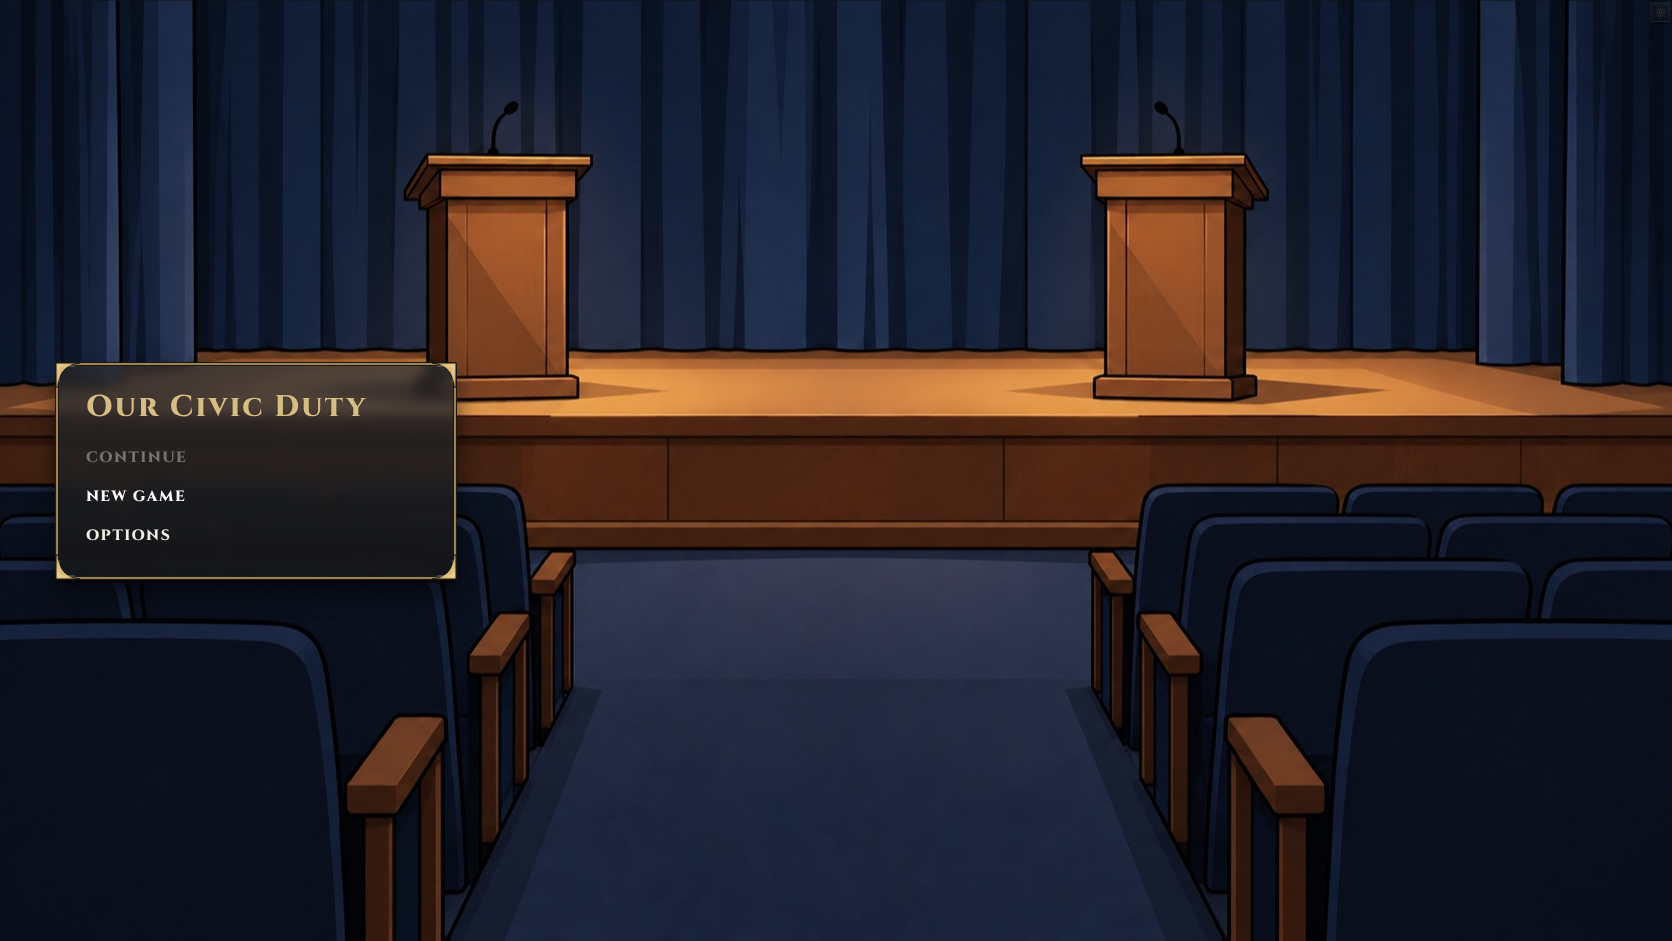
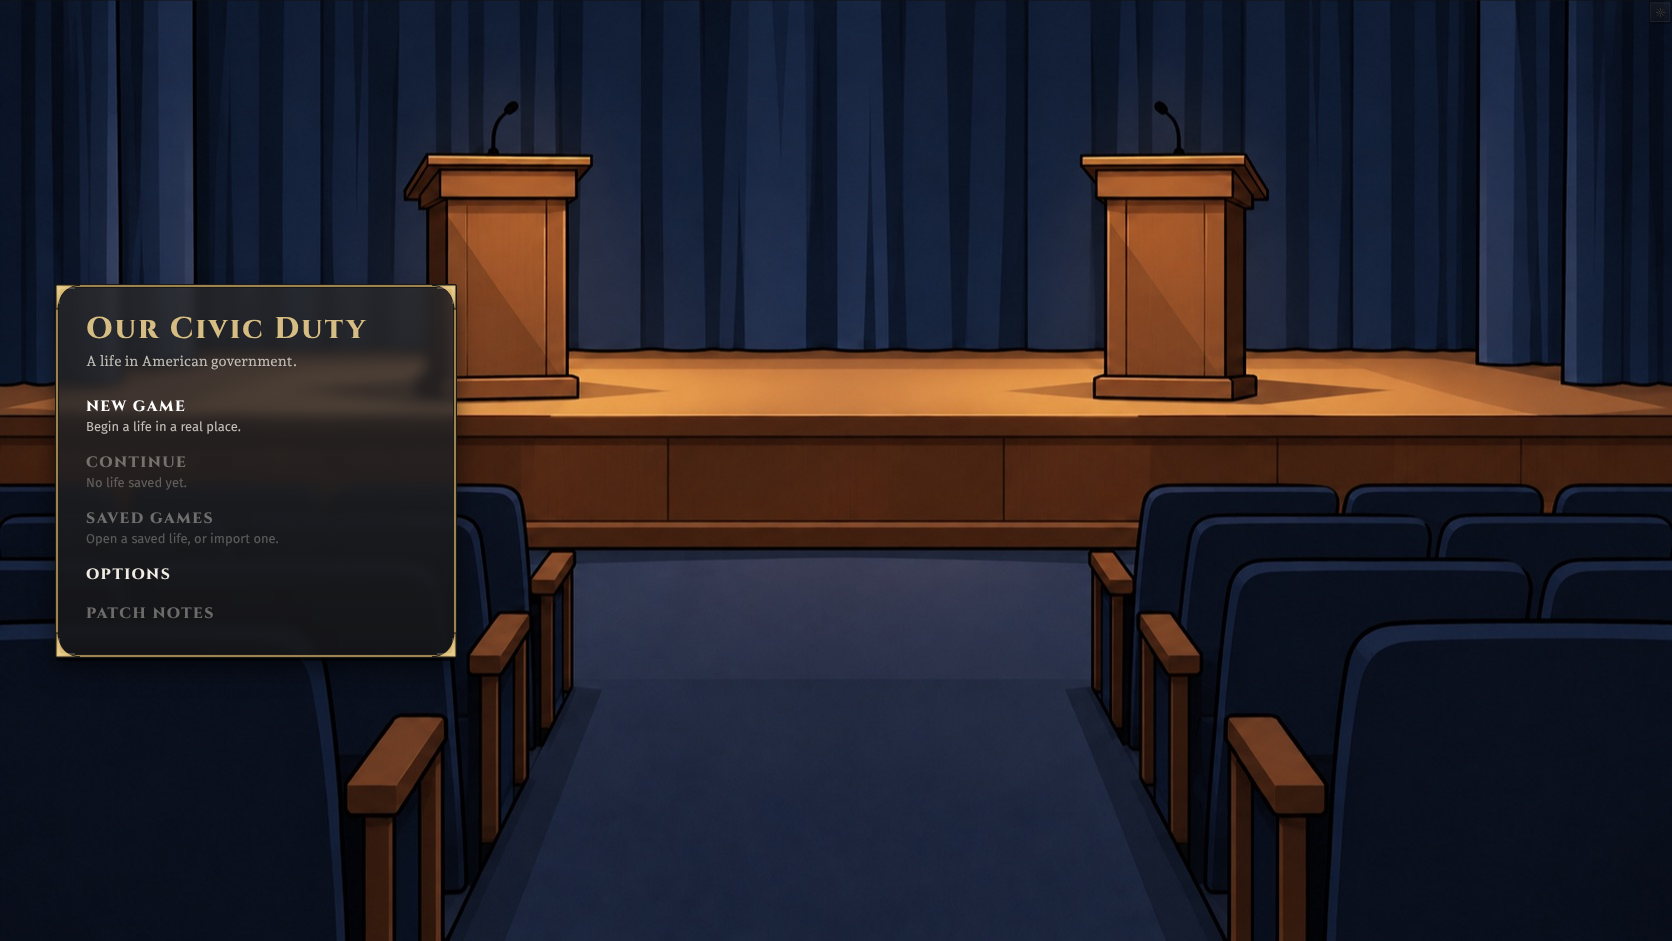
Title: the established menu in the current Kit 13 look, no figure
The front returns to the established title's structure (Oct 2 packet and the
Oct 12 React title): the subtitle under the wordmark, then New game,
Continue, Saved games, Options, Patch notes and Quit on the desktop, each
with its line. Continue is disabled with 'No life saved yet.' when there is
none; Saved games and Patch notes are disabled until saves and a notes route
exist; Watch the world stays out (developer tool). The title's character
placement is deleted; the national-scene rotation stays.

Claude-Session: https://claude.ai/code/session_018wf2994rZTSyb6RouxgtPh

diff --git a/src/bench/play.html b/src/bench/play.html
@@ -78,7 +78,16 @@
 
       <section id="front" class="panel menu" data-testid="title-menu">
         <h1 class="title">Our Civic Duty</h1>
+        <p class="sub">A life in American government.</p>
         <div id="front-main">
+          <button
+            id="new-life"
+            class="item"
+            type="button"
+            data-testid="new-game"
+          >
+            <b>New game</b><span>Begin a life in a real place.</span>
+          </button>
           <button
             id="front-continue"
             class="item"
@@ -86,15 +95,17 @@
             data-testid="continue"
             disabled
           >
-            <b>Continue</b>
+            <b>Continue</b><span>No life saved yet.</span>
           </button>
+          <!-- Saved games and Patch notes wait for saves and a notes route. -->
           <button
-            id="new-life"
+            id="front-saves"
             class="item"
             type="button"
-            data-testid="new-game"
+            data-testid="saved-games"
+            disabled
           >
-            <b>New game</b>
+            <b>Saved games</b><span>Open a saved life, or import one.</span>
           </button>
           <button
             id="front-options"
@@ -103,6 +114,15 @@
             data-testid="title-options"
           >
             <b>Options</b>
+          </button>
+          <button
+            id="front-patch-notes"
+            class="item"
+            type="button"
+            data-testid="title-patch-notes"
+            disabled
+          >
+            <b>Patch notes</b>
           </button>
           <!-- Quit is the desktop's; a browser tab has none to offer. -->
           <button

diff --git a/src/bench/title.ts b/src/bench/title.ts
@@ -1,5 +1,4 @@
-import type { CoreState } from "../core2/types";
-import { backdropFile, stagePeople } from "./scene";
+import { backdropFile } from "./scene";
 
 /**
  * The title's scenes: national places and events that hold people (owner,
@@ -31,26 +30,9 @@ function dayNumber(day: string) {
 
 /**
  * The scene for one visit to the title: the day picks where the rotation
- * starts and each visit moves one scene on. With a life in progress, its
- * character stands on the scene's lead spot (Oct 2 ruling: the latest
- * character's hero pose), placed by the scene's own staging.
+ * starts and each visit moves one scene on.
  */
-export function titleScene(
-  day: string,
-  visit: number,
-  core?: CoreState,
-  personId?: string,
-) {
+export function titleScene(day: string, visit: number) {
   const place = TITLE_SCENES[(dayNumber(day) + visit) % TITLE_SCENES.length]!;
-  const person = personId ? core?.people.get(personId) : undefined;
-  const people =
-    core && person
-      ? stagePeople(core, place, [
-          {
-            id: person.id,
-            name: `${person.givenName} ${person.familyName}`,
-          },
-        ]).people
-      : [];
-  return { place, backdrop: backdropFile(place, TITLE_MINUTE), people };
+  return { place, backdrop: backdropFile(place, TITLE_MINUTE) };
 }

diff --git a/src/bench/play.css b/src/bench/play.css
@@ -713,7 +713,11 @@ input[type="range"]::-moz-range-thumb {
   font: 800 30px/1.1 var(--name);
   letter-spacing: 0.07em;
   color: var(--gold);
-  margin-bottom: 14px;
+}
+.sub {
+  font: 500 14.5px var(--speech);
+  color: var(--text-2);
+  margin: 6px 0 18px;
 }
 .item {
   display: block;
@@ -725,6 +729,12 @@ input[type="range"]::-moz-range-thumb {
   font: 800 15px var(--name);
   letter-spacing: 0.1em;
   text-transform: uppercase;
+}
+.item span {
+  display: block;
+  font: 400 13px var(--ui);
+  color: var(--text-2);
+  margin-top: 2px;
 }
 #new-life b {
   color: #fff;

diff --git a/src/bench/handler.ts b/src/bench/handler.ts
@@ -358,8 +358,6 @@ export async function benchRequest(
         const scene = titleScene(
           new Date().toISOString().slice(0, 10),
           titleVisits++,
-          core,
-          personId,
         );
         send(200, {
           ...scene,

diff --git a/docs/release/changes/play-title-menu-and-scenes.md b/docs/release/changes/play-title-menu-and-scenes.md
@@ -2,7 +2,7 @@
 id: play-title-menu-and-scenes
 impact: patch
 section: Changed
-title: The title menu has Continue again and changes its national scene each visit
+title: The title menu is the established one again, over a national scene that changes each visit
 ---
 
-The title menu offers Continue, New game, Options and, on the desktop, Quit, with no tagline. Behind it a national scene changes with each visit: the White House, the convention, a rally, the House and Senate floors, the debate stage or the Oval Office, with your character standing in it once you have a life to continue.
+The title menu is back to its established form: the subtitle, then New game, Continue, Saved games, Options and Patch notes, each with its line, and Quit on the desktop. Behind it a national scene changes with each visit: the White House, the convention, a rally, the House and Senate floors, the debate stage or the Oval Office.
